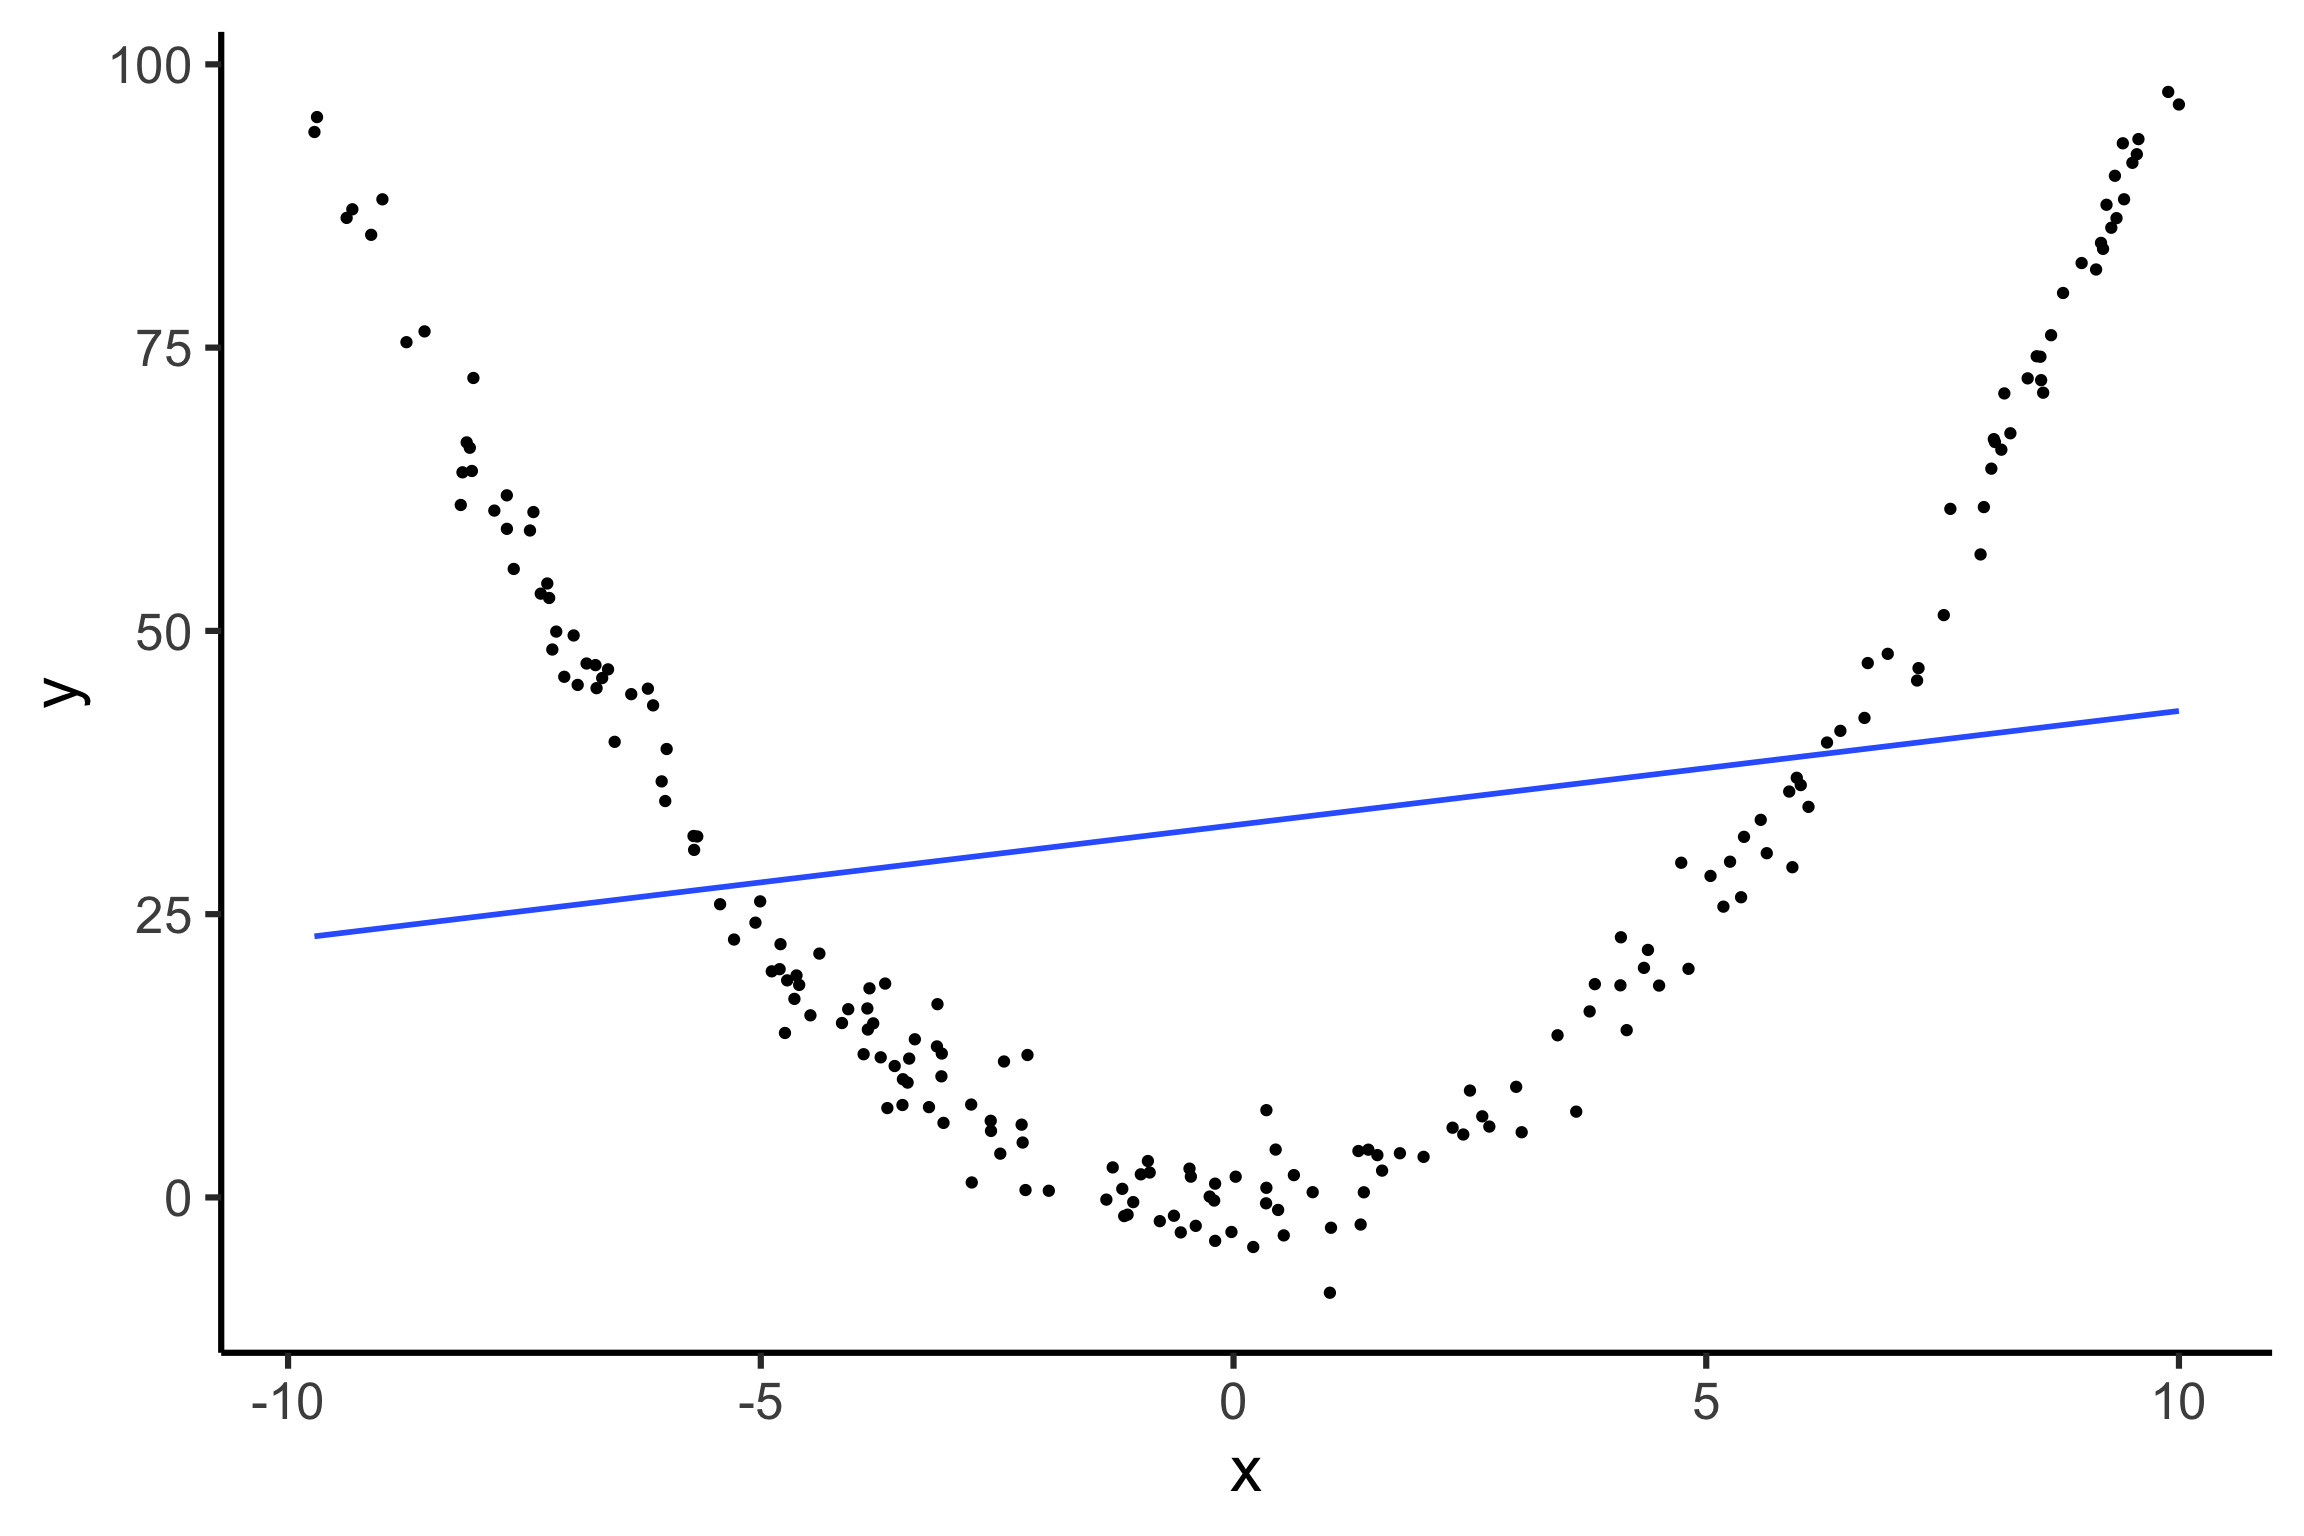
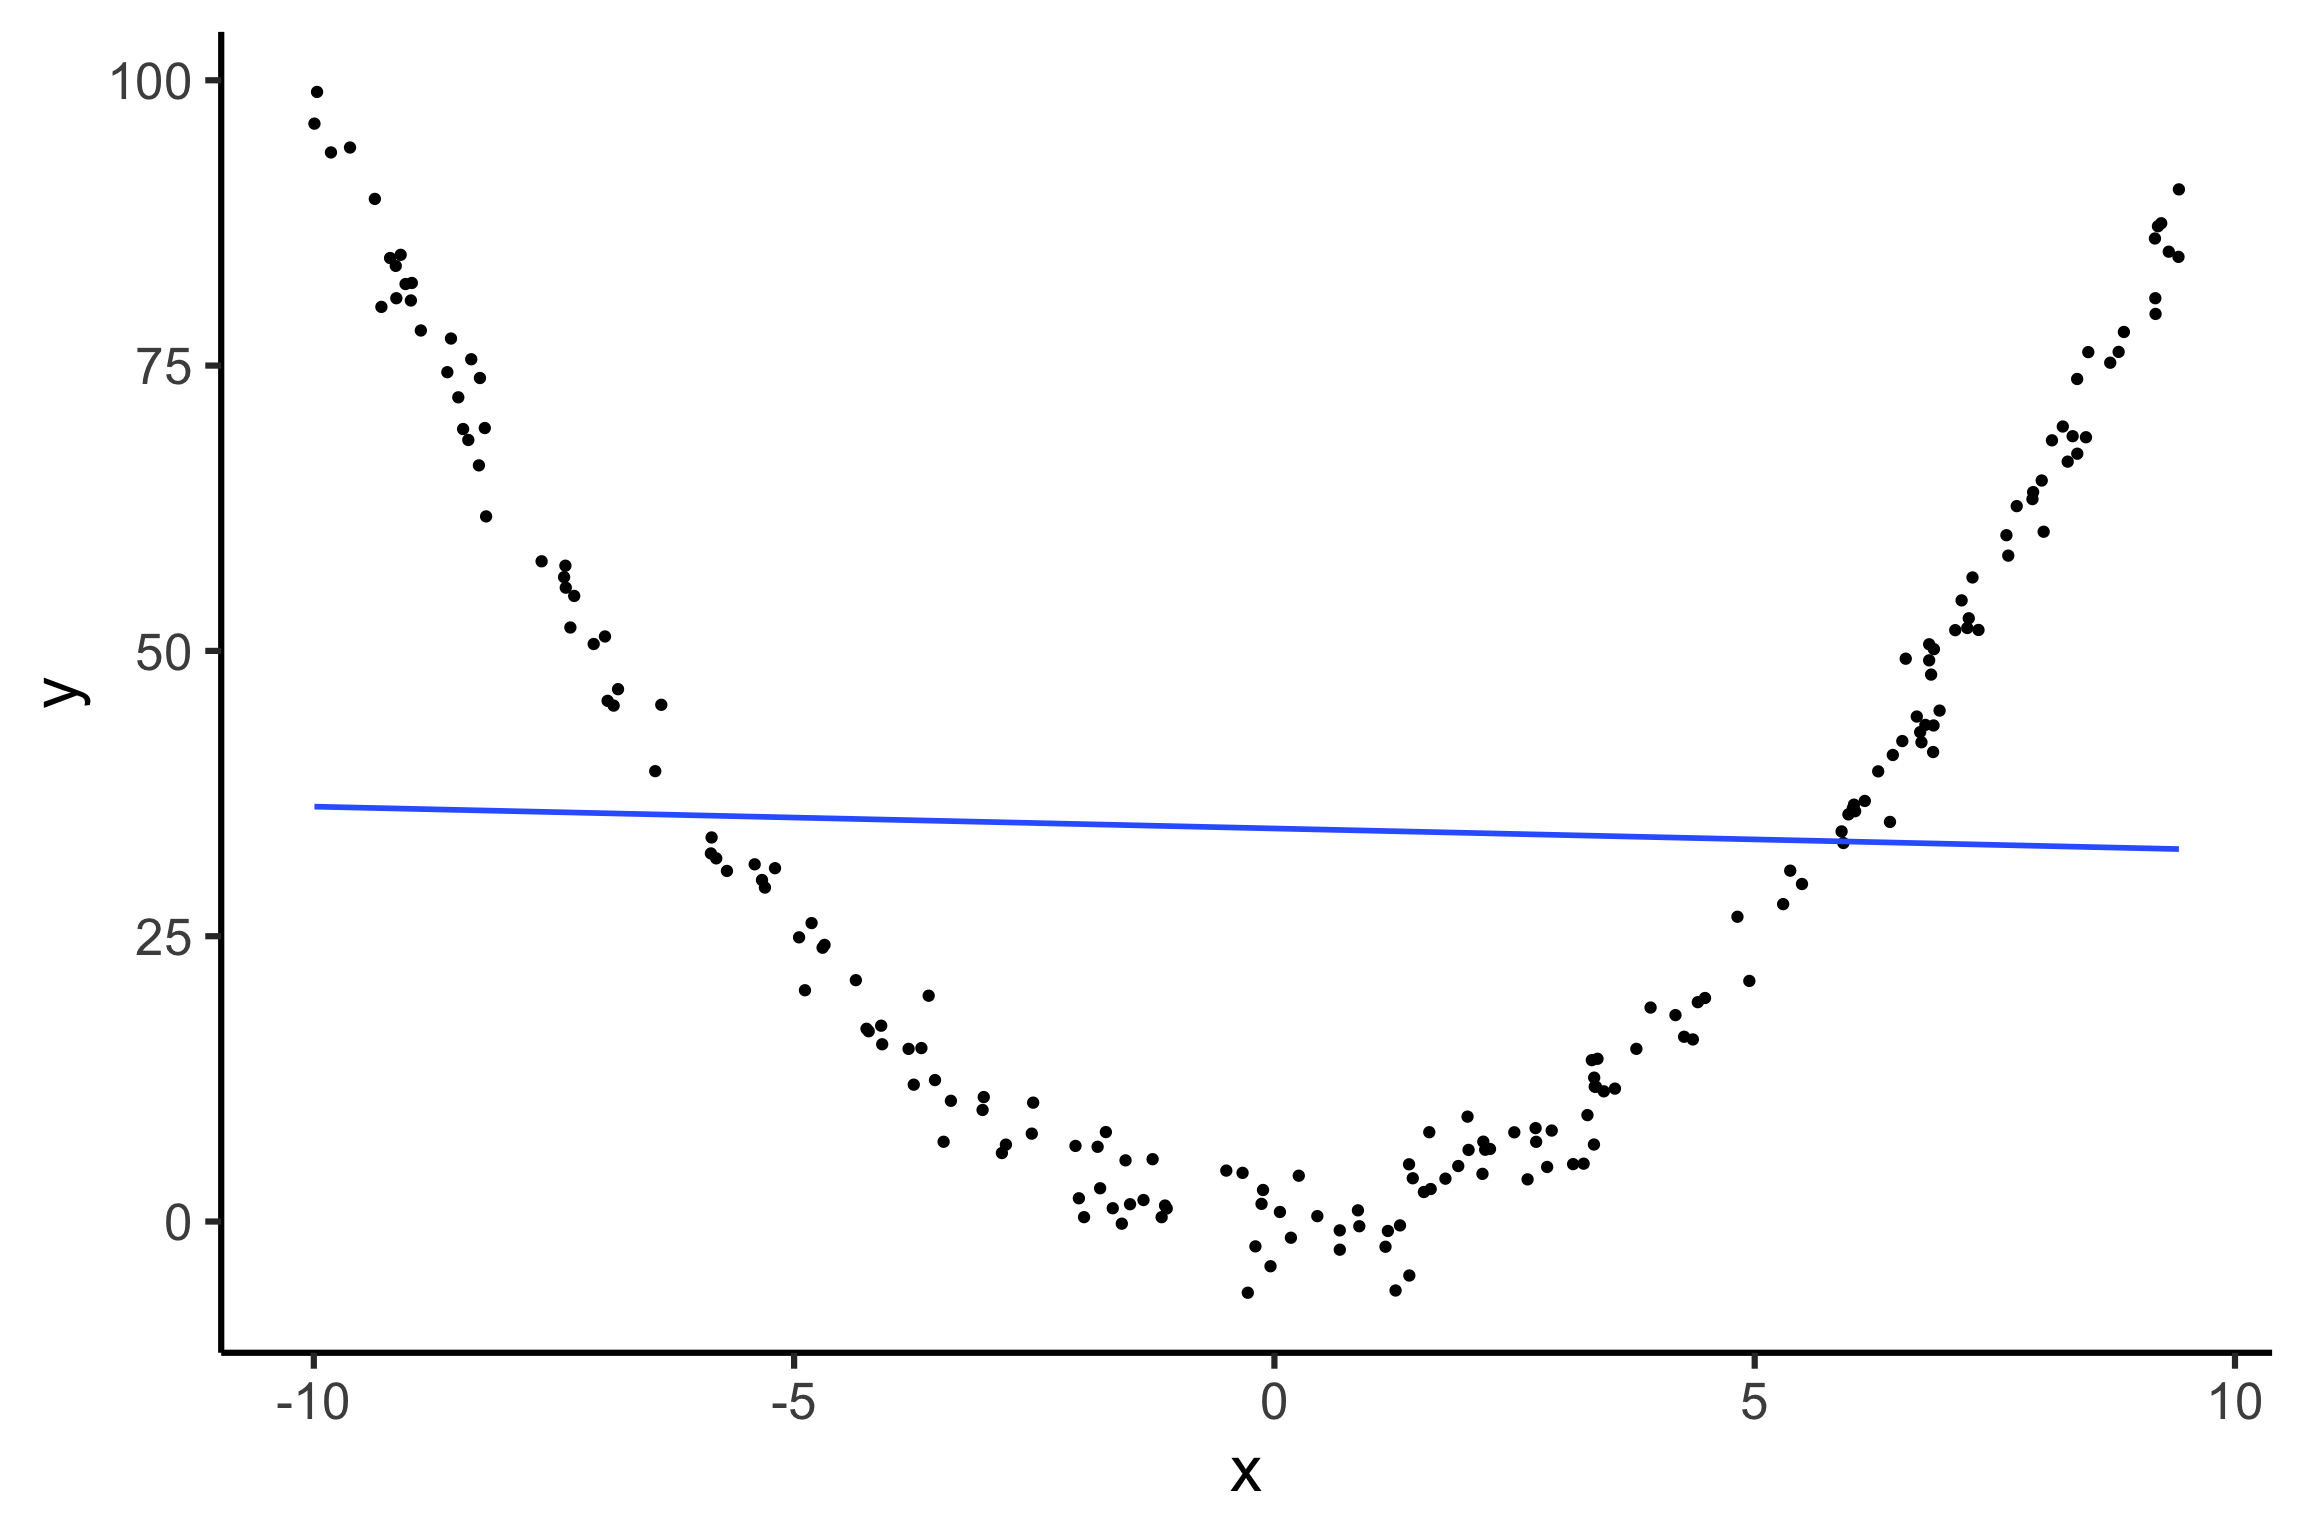
Built site for gh-pages

diff --git a/exercises/exercise02.html b/exercises/exercise02.html
@@ -420,8 +420,8 @@ eyJhdHRyIjp7ImNoZWNrIjp0cnVlLCJlZGl0Ijp0cnVlLCJldmFsIjp0cnVlLCJleGVyY2lzZSI6ImV4
 <ul>
 <li>Based on your answer to the previous question, what is the conclusion of the test using a significance level of 0.05?</li>
 </ul>
-<div id="radio_JTBAAZICDT" class="webex-radiogroup">
-<label><input type="radio" autocomplete="off" name="radio_JTBAAZICDT" value=""> <span>There is no evidence to suggest that iguanas shrink in size during the El Niño event.</span></label><label><input type="radio" autocomplete="off" name="radio_JTBAAZICDT" value="answer"> <span>The data suggests that iguanas shrink in size during the El Niño event.</span></label><label><input type="radio" autocomplete="off" name="radio_JTBAAZICDT" value=""> <span>There is evidence to suggest that iguanas grow in size during the El Niño event.</span></label>
+<div id="radio_HTKQUHXOLI" class="webex-radiogroup">
+<label><input type="radio" autocomplete="off" name="radio_HTKQUHXOLI" value=""> <span>There is evidence to suggest that iguanas grow in size during the El Niño event.</span></label><label><input type="radio" autocomplete="off" name="radio_HTKQUHXOLI" value=""> <span>There is no evidence to suggest that iguanas shrink in size during the El Niño event.</span></label><label><input type="radio" autocomplete="off" name="radio_HTKQUHXOLI" value="answer"> <span>The data suggests that iguanas shrink in size during the El Niño event.</span></label>
 </div>
 </section>
 <section id="exercise-2.1.4" class="level3">
@@ -538,8 +538,8 @@ eyJhdHRyIjp7ImNoZWNrIjp0cnVlLCJlZGl0Ijp0cnVlLCJldmFsIjp0cnVlLCJleGVyY2lzZSI6ImV4
 <ul>
 <li>Based on your answer to the previous question, what is the conclusion of the test using a significance level of 0.01?</li>
 </ul>
-<div id="radio_YJMBZMPXZU" class="webex-radiogroup">
-<label><input type="radio" autocomplete="off" name="radio_YJMBZMPXZU" value="answer"> <span>There is strong evidence to suggest that drinking beer attracts more mosquitos.</span></label><label><input type="radio" autocomplete="off" name="radio_YJMBZMPXZU" value=""> <span>There is evidence to suggest that drinking water attracts more mosquitos.</span></label><label><input type="radio" autocomplete="off" name="radio_YJMBZMPXZU" value=""> <span>There is no evidence that the change in activation of mosquitos is different between drinking beer and water.</span></label>
+<div id="radio_OMYTKRIQEI" class="webex-radiogroup">
+<label><input type="radio" autocomplete="off" name="radio_OMYTKRIQEI" value=""> <span>There is no evidence that the change in activation of mosquitos is different between drinking beer and water.</span></label><label><input type="radio" autocomplete="off" name="radio_OMYTKRIQEI" value="answer"> <span>There is strong evidence to suggest that drinking beer attracts more mosquitos.</span></label><label><input type="radio" autocomplete="off" name="radio_OMYTKRIQEI" value=""> <span>There is evidence to suggest that drinking water attracts more mosquitos.</span></label>
 </div>
 </section>
 </section>
@@ -581,12 +581,12 @@ eyJhdHRyIjp7ImNoZWNrIjp0cnVlLCJlZGl0Ijp0cnVlLCJldmFsIjp0cnVlLCJleGVyY2lzZSI6ImV4
 <ul>
 <li>Based on your answer to the previous question, what is the conclusion of the test using a significance level of 0.05?</li>
 </ul>
-<div id="radio_GQVNFCQBMB" class="webex-radiogroup">
-<label><input type="radio" autocomplete="off" name="radio_GQVNFCQBMB" value=""> <span>There is strong evidence to suggest that the new pesticide is more effective than the standard one.</span></label><label><input type="radio" autocomplete="off" name="radio_GQVNFCQBMB" value="answer"> <span>There is no evidence that the new pesticide is more effective than the standard one.</span></label><label><input type="radio" autocomplete="off" name="radio_GQVNFCQBMB" value=""> <span>There is evidence to suggest that the new pesticide is less effective than the standard one.</span></label>
+<div id="radio_ICRPYTQSXE" class="webex-radiogroup">
+<label><input type="radio" autocomplete="off" name="radio_ICRPYTQSXE" value=""> <span>There is strong evidence to suggest that the new pesticide is more effective than the standard one.</span></label><label><input type="radio" autocomplete="off" name="radio_ICRPYTQSXE" value=""> <span>There is evidence to suggest that the new pesticide is less effective than the standard one.</span></label><label><input type="radio" autocomplete="off" name="radio_ICRPYTQSXE" value="answer"> <span>There is no evidence that the new pesticide is more effective than the standard one.</span></label>
 </div>
 <p><br><br></p>
 <hr>
-<p>🎉 <em>Yippie! </em> You’ve reached the end of this exercise! <em>You are best!</em> Proceed to …<br><br></p>
+<p>🎉 <em>Awww! </em> You’ve reached the end of this exercise! <em>You are neat!</em> Proceed to …<br><br></p>
 <p><a href="../slides/slide3.html" class="button-next"><i class="fas fa-caret-square-right"></i> next slide</a> <br><br></p>
 <p><a href="../exercises/exercise03.html" class="button-next"><i class="fas fa-caret-square-right"></i> next exercise</a></p>
 

diff --git a/slides/slide1.html b/slides/slide1.html
@@ -1054,7 +1054,7 @@ eyJhdHRyIjp7ImVkaXQiOnRydWUsImV2YWwiOnRydWV9LCJjb2RlIjoicG5vcm0oMikifQ==
 
 </div>
 <script type="webr-28-contents">
[2 lines of base64/hex data omitted]
 </script>
 </div>
 </div>
@@ -1115,7 +1115,7 @@ eyJhdHRyIjp7ImVkaXQiOnRydWUsImV2YWwiOnRydWUsImlucHV0IjpbInlpZWxkX21lYW4iLCJ5aWVs
 </div>
 </div>
 <ul>
-<li>Calculate the probability of a yield being greater than 1.5 tolas per plot:</li>
+<li>Calculate the probability of a yield being greater than 150 tolas per plot:</li>
 </ul>
 <div class="cell" data-layout-align="center" data-input="[&quot;yield_mean&quot;,&quot;yield_sd&quot;]">
 <div>
@@ -1123,7 +1123,7 @@ eyJhdHRyIjp7ImVkaXQiOnRydWUsImV2YWwiOnRydWUsImlucHV0IjpbInlpZWxkX21lYW4iLCJ5aWVs
 
 </div>
 <script type="webr-32-contents">
[2 lines of base64/hex data omitted]
 </script>
 </div>
 </div>

diff --git a/exercises/exercise06.html b/exercises/exercise06.html
@@ -400,7 +400,7 @@ About the data
 <section id="exercise-6.1" class="level3">
 <h3 class="anchored" data-anchor-id="exercise-6.1">Exercise 6.1</h3>
 <ul>
-<li>Is this data experimental or observational? <select class="webex-select"><option value="blank"></option><option value="answer">observational</option><option value="">experimental</option></select></li>
+<li>Is this data experimental or observational? <select class="webex-select"><option value="blank"></option><option value="">experimental</option><option value="answer">observational</option></select></li>
 </ul>
 <div class="cell" data-autorun="true" data-caption="Exercise 6.1">
 <div>
@@ -644,7 +644,7 @@ eyJhdHRyIjp7ImNhcHRpb24iOiJFeGVyY2lzZSA2LjEwIiwiZWRpdCI6dHJ1ZSwiZXZhbCI6dHJ1ZSwi
 </div>
 <p><br><br></p>
 <hr>
-<p>🎉 <em>Aww! </em> That concludes all of the exercises!</p>
+<p>🎉 <em>Hurrah! </em> That concludes all of the exercises!</p>
 <div class="cell" data-autorun="true" data-caption="🥳">
 <div>
 <div id="webr-25" class="exercise-cell">

diff --git a/index.html b/index.html
@@ -594,7 +594,7 @@ Introductions
 </div>
 </a>
 </div>
-<div class="g-col-1" data-index="1" data-listing-date-sort="1739800800000" data-listing-file-modified-sort="1739834483657" data-listing-date-modified-sort="NaN" data-listing-reading-time-sort="17" data-listing-word-count-sort="3370">
+<div class="g-col-1" data-index="1" data-listing-date-sort="1739800800000" data-listing-file-modified-sort="1739843709122" data-listing-date-modified-sort="NaN" data-listing-reading-time-sort="17" data-listing-word-count-sort="3370">
 <a href="./slides/slide1.html" class="quarto-grid-link">
 <div class="quarto-grid-item card h-100 card-left">
 <p class="card-img-top">

diff --git a/exercises/exercise05.html b/exercises/exercise05.html
@@ -395,7 +395,7 @@ eyJhdHRyIjp7ImVkaXQiOnRydWUsImV2YWwiOnRydWUsImV4ZXJjaXNlIjoiZXgxMyJ9LCJjb2RlIjoi
 </div>
 <p><br><br></p>
 <hr>
-<p>🎉 <em>Gee! </em> You’ve reached the end of this exercise! <em>You are fine!</em> Proceed to …<br><br></p>
+<p>🎉 <em>Yee-haw! </em> You’ve reached the end of this exercise! <em>You are extraordinary!</em> Proceed to …<br><br></p>
 <p><a href="../slides/slide6.html" class="button-next"><i class="fas fa-caret-square-right"></i> next slide</a> <br><br></p>
 <p><a href="../exercises/exercise06.html" class="button-next"><i class="fas fa-caret-square-right"></i> next exercise</a></p>
 

diff --git a/exercises/exercise03.html b/exercises/exercise03.html
@@ -728,7 +728,7 @@ eyJhdHRyIjp7ImNoZWNrIjp0cnVlLCJlZGl0Ijp0cnVlLCJldmFsIjp0cnVlLCJleGVyY2lzZSI6ImV4
 </div>
 <p><br><br></p>
 <hr>
-<p>🎉 <em>Ha! </em> You’ve reached the end of this exercise! <em>You are remarkable!</em> Proceed to …<br><br></p>
+<p>🎉 <em>Hooray! </em> You’ve reached the end of this exercise! <em>You are fabulous!</em> Proceed to …<br><br></p>
 <p><a href="../slides/slide4.html" class="button-next"><i class="fas fa-caret-square-right"></i> next slide</a> <br><br></p>
 <p><a href="../exercises/exercise04.html" class="button-next"><i class="fas fa-caret-square-right"></i> next exercise</a></p>
 

diff --git a/exercises/exercise01.html b/exercises/exercise01.html
@@ -796,7 +796,7 @@ eyJhdHRyIjp7ImNoZWNrIjp0cnVlLCJlZGl0Ijp0cnVlLCJldmFsIjp0cnVlLCJleGVyY2lzZSI6ImV4
 </div>
 <p><br><br></p>
 <hr>
-<p>🎉 <em>Yowza! </em> You’ve reached the end of this exercise! <em>You are dandy!</em> Proceed to …<br><br></p>
+<p>🎉 <em>Yikes! </em> You’ve reached the end of this exercise! <em>You are solid!</em> Proceed to …<br><br></p>
 <p><a href="../slides/slide2.html" class="button-next"><i class="fas fa-caret-square-right"></i> next slide</a> <br><br></p>
 <p><a href="../exercises/exercise02.html" class="button-next"><i class="fas fa-caret-square-right"></i> next exercise</a></p>
 

diff --git a/exercises/exercise04.html b/exercises/exercise04.html
@@ -667,7 +667,7 @@ fit3 |&gt;
 </div>
 <p><br><br></p>
 <hr>
-<p>🎉 <em>Mhm! </em> You’ve reached the end of this exercise! <em>You are extraordinary!</em> Proceed to …<br><br></p>
+<p>🎉 <em>Yikes! </em> You’ve reached the end of this exercise! <em>You are unreal!</em> Proceed to …<br><br></p>
 <p><a href="../slides/slide5.html" class="button-next"><i class="fas fa-caret-square-right"></i> next slide</a> <br><br></p>
 <p><a href="../exercises/exercise05.html" class="button-next"><i class="fas fa-caret-square-right"></i> next exercise</a></p>
 

diff --git a/slides/slide3.html b/slides/slide3.html
@@ -452,7 +452,7 @@ eyJhdHRyIjp7ImVjaG8iOmZhbHNlLCJlZGl0IjpmYWxzZSwiZXZhbCI6dHJ1ZSwiZmlnLWhlaWdodCI6
 </div>
 </div>
 <ul>
-<li><span class="math inline">r = 0.1938409</span></li>
+<li><span class="math inline">r = -0.0378444</span></li>
 </ul>
 </div></div>
 </section>
